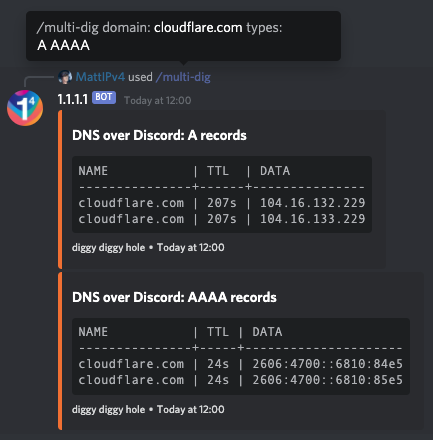
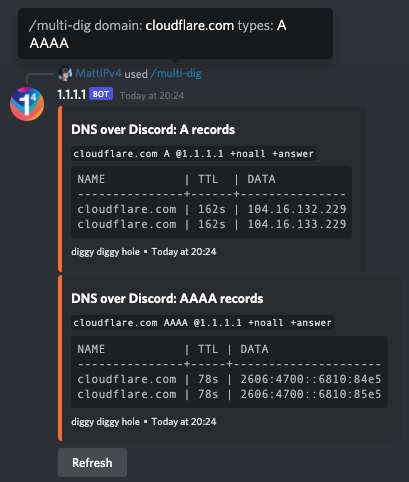
[1.1.1.1] Update the DNS over Discord docs (#1728)
* Update the DNS over Discord docs

Updates the supported types for dig & multi-dig

Adds information (and GIFs) for the new refresh button on dig & multi-dig

* Use single list format for record types

Changed region(s): [[0.0, 0.0, 0.9389, 1.0], [0.6748, 0.2955, 0.7628, 0.325]]

diff --git a/products/1.1.1.1/src/content/fun-stuff/dns-over-discord.md b/products/1.1.1.1/src/content/fun-stuff/dns-over-discord.md
@@ -9,18 +9,24 @@ Ever wanted to make DNS requests from the comfort of your Discord server? Well n
 
 To start using the DNS over Discord bot, invite it to your Discord server using this link: [https://cfl.re/3nM6VfQ](https://cfl.re/3nM6VfQ)
 
+
 ## dig command
 
 Once the bot is in your server, type `/dig` to begin using the bot's main command — performing DNS lookups.
 This will provide a native interface within Discord that allows you to specify the domain to lookup, an optional DNS record type and an optional flag for a short result.
 
-Due to limitations in Discord, the `/dig` command can only offer 10 different DNS record types, and will default to 'A' records if none is specified.
+If only a domain is given for the command, the bot will default to looking for 'A' DNS records, and will return the full format result, not the short form.
 
 ![dig command](../static/dns-over-discord/dig-command.png)
 
-![dig command types](../static/dns-over-discord/dig-command-types.png)
+![dig domain: cloudflare.com](../static/dns-over-discord/dig-command-example-1.png)
+
+_`/dig domain: cloudflare.com`_
+
 
 ### Supported record types
+
+Discord has a limit of 25 options in slash commands, so DNS over Discord offers the 25 most common DNS record types to choose from:
 
 *   A
 *   AAAA
@@ -32,69 +38,147 @@ Due to limitations in Discord, the `/dig` command can only offer 10 different DN
 *   SPF
 *   SRV
 *   TXT
-
-For all DNS record types, use the `/multi-dig` command.
-
-### Examples
-
-![dig domain: cloudflare.com](../static/dns-over-discord/dig-command-example-1.png)
-
-`/dig domain: cloudflare.com`
-
-![dig domain: cloudflare.com type: AAAA short: True](../static/dns-over-discord/dig-command-example-2.png)
-
-`/dig domain: cloudflare.com type: AAAA short: True`
-
-## multi-dig command
-
-Want to lookup multiple DNS record types at once, or record types not available in `/dig`?
-The `/multi-dig` command allows you to specify any supported DNS record type, and multiple types separated by a space.
-
-When providing DNS record types for the `/multi-dig` command, Discord will not prompt you with options.
-Please provide a space-separated list of valid DNS record types to lookup, any invalid options will be silently dropped.
-'A' records will be used as the default if no valid types are given.
-
-![multi-dig command](../static/dns-over-discord/multi-dig-command.png)
-
-![multi-dig command types](../static/dns-over-discord/multi-dig-command-types.png)
-
-### Supported record types
-
-*   A
-*   AAAA
-*   CAA
-*   CERT
-*   CNAME
 *   DNSKEY
 *   DS
 *   LOC
-*   MX
+*   URI
+*   HTTPS
 *   NAPTR
-*   NS
 *   PTR
 *   SMIMEA
-*   SPF
-*   SRV
+*   SOA
 *   SSHFP
+*   SVCB
 *   TLSA
-*   TXT
-*   URI
+*   HINFO
+*   CDS
+*   CDNSKEY
 
-Use '\*' (asterisk) in place of a record type to get DNS results for all supported types.
+*To query other DNS record types, or multiple record types at once, use the `/multi-dig` command.*
 
-### Examples
+![dig command types](../static/dns-over-discord/dig-command-types.png)
+
+
+### Short form response
+
+Much like the dig command itself, DNS over Discord has an optional flag in the dig command that allows the user to request that the response be in the short form.
+
+When this is requested, the name and TTL columns will be excluded, with just the data column returned without the table formatting, similar to the equivalent dig command response.
+
+![dig domain: cloudflare.com type: AAAA short: true](../static/dns-over-discord/dig-command-example-2.png)
+
+_`/dig domain: cloudflare.com type: AAAA short: true`_
+
+
+### Refreshing existing results
+
+As part of the response that the DNS over Discord bot returns for dig commands there is a button to refresh the results.
+
+Any user can press this button, triggering the bot to re-request the DNS query in the message and update the results in the message.
+
+The refresh button is available on all responses to the dig command, including those that resulted in an error, such as an unknown domain or no records found.
+
+![Refreshing dig domain: cloudflare.com](../static/dns-over-discord/dig-command-refresh.gif)
+
+_`/dig domain: cloudflare.com`_
+
+
+## multi-dig command
+
+Want to lookup multiple DNS record types at once?
+The `/multi-dig` command allows you to specify any supported DNS record type, and multiple types separated by a space.
+
+![multi-dig command](../static/dns-over-discord/multi-dig-command.png)
 
 ![multi-dig domain: cloudflare.com types: A AAAA](../static/dns-over-discord/multi-dig-command-example-1.png)
 
-`/multi-dig domain: cloudflare.com types: A AAAA`
+_`/multi-dig domain: cloudflare.com types: A AAAA`_
 
-![multi-dig domain: cloudflare.com types: DNSKEY short: True](../static/dns-over-discord/multi-dig-command-example-2.png)
 
-`/multi-dig domain: cloudflare.com types: DNSKEY short: True`
+### Supported record types
+
+When providing DNS record types for the `/multi-dig` command, Discord will not prompt you with options.
+
+Please provide a space-separated list of valid DNS record types to lookup, any invalid options will be silently dropped.
+'A' records will be used as the default if no valid types are given.
+
+The following DNS record types are supported and considered valid by the bot:
+
+*   A
+*   AAAA
+*   CAA
+*   CERT
+*   CNAME
+*   MX
+*   NS
+*   SPF
+*   SRV
+*   TXT
+*   DNSKEY
+*   DS
+*   LOC
+*   URI
+*   HTTPS
+*   NAPTR
+*   PTR
+*   SMIMEA
+*   SOA
+*   SSHFP
+*   SVCB
+*   TLSA
+*   HINFO
+*   CDS
+*   CDNSKEY
+*   AFSDB
+*   APL
+*   CSYNC
+*   DHCID
+*   DLV
+*   DNAME
+*   EUI48
+*   EUI64
+*   HIP
+*   IPSECKEY
+*   KEY
+*   KX
+*   NSEC
+*   NSEC3
+*   NSEC3PARAM
+*   OPENPGPKEY
+*   RP
+*   TA
+*   TKEY
+*   ZONEMD
+
+*Use '\*' (asterisk) in place of a record type to get DNS results for all supported types.*
+
+![multi-dig command types](../static/dns-over-discord/multi-dig-command-types.png)
+
+
+### Short form response
+
+Like the main dig command, the multi-dig command also supports the optional short flag after the types have been specified in the slash command.
+
+![multi-dig domain: cloudflare.com types: CDS CDNSKEY short: true](../static/dns-over-discord/multi-dig-command-example-2.png)
+
+_`/multi-dig domain: cloudflare.com types: CDS CDNSKEY short: true`_
+
+
+### Refreshing existing results
+
+The multi-dig command also provides a refresh button below each set of DNS results requested (or after each block of 10 DNS record types if more than 10 were requested).
+
+As with the dig command, any user can press the refresh button to refresh the displayed DNS results, including for DNS queries that had previously failed.
+
+![Refreshing multi-dig domain: cloudflare.com types: A AAAA](../static/dns-over-discord/multi-dig-command-refresh.gif)
+
+_`/multi-dig domain: cloudflare.com types: A AAAA`_
+
 
 ## whois command
 
-The `/whois` command allows you to perform an RDAP/WHOIS lookup right in Discord to find who is behind a given domain name, an IP address, or an ASN.
+Curious about who's behind a domain name, an IP address or even an ASN?
+The `/whois` command allows you to perform an RDAP/WHOIS lookup right in Discord for a given domain, IP or ASN.
 
 ![whois command](../static/dns-over-discord/whois-command.png)
 
@@ -102,19 +186,19 @@ The `/whois` command allows you to perform an RDAP/WHOIS lookup right in Discord
 
 ![whois query: cloudflare.com](../static/dns-over-discord/whois-command-example-1.png)
 
-`/whois query: cloudflare.com`
+_`/whois query: cloudflare.com`_
 
 ![whois query: 104.16.132.229](../static/dns-over-discord/whois-command-example-2.png)
 
-`/whois query: 104.16.132.229`
+_`/whois query: 104.16.132.229`_
 
 ![whois query: 2606:4700::6810:84e5](../static/dns-over-discord/whois-command-example-3.png)
 
-`/whois query: 2606:4700::6810:84e5`
+_`/whois query: 2606:4700::6810:84e5`_
 
 ![whois query: 13335](../static/dns-over-discord/whois-command-example-4.png)
 
-`/whois query: 13335`
+_`/whois query: 13335`_
 
 ## Other commands
 
@@ -126,7 +210,7 @@ The `/help` command provides in-Discord documentation about all the commands ava
 
 ![help command](../static/dns-over-discord/help-command.png)
 
-`/help`
+_`/help`_
 
 ### privacy command
 
@@ -135,7 +219,7 @@ This notice can also be viewed at [https://dns-over-discord.v4.wtf/privacy](http
 
 ![privacy command](../static/dns-over-discord/privacy-command.png)
 
-`/privacy`
+_`/privacy`_
 
 ### github command
 
@@ -144,7 +228,7 @@ The GitHub repository can be accessed at [https://github.com/MattIPv4/DNS-over-D
 
 ![github command](../static/dns-over-discord/github-command.png)
 
-`/github`
+_`/github`_
 
 ### invite command
 
@@ -153,7 +237,7 @@ The bot can be invited at any time with [https://cfl.re/3nM6VfQ](https://cfl.re/
 
 ![invite command](../static/dns-over-discord/invite-command.png)
 
-`/invite`
+_`/invite`_
 
 ---
 
